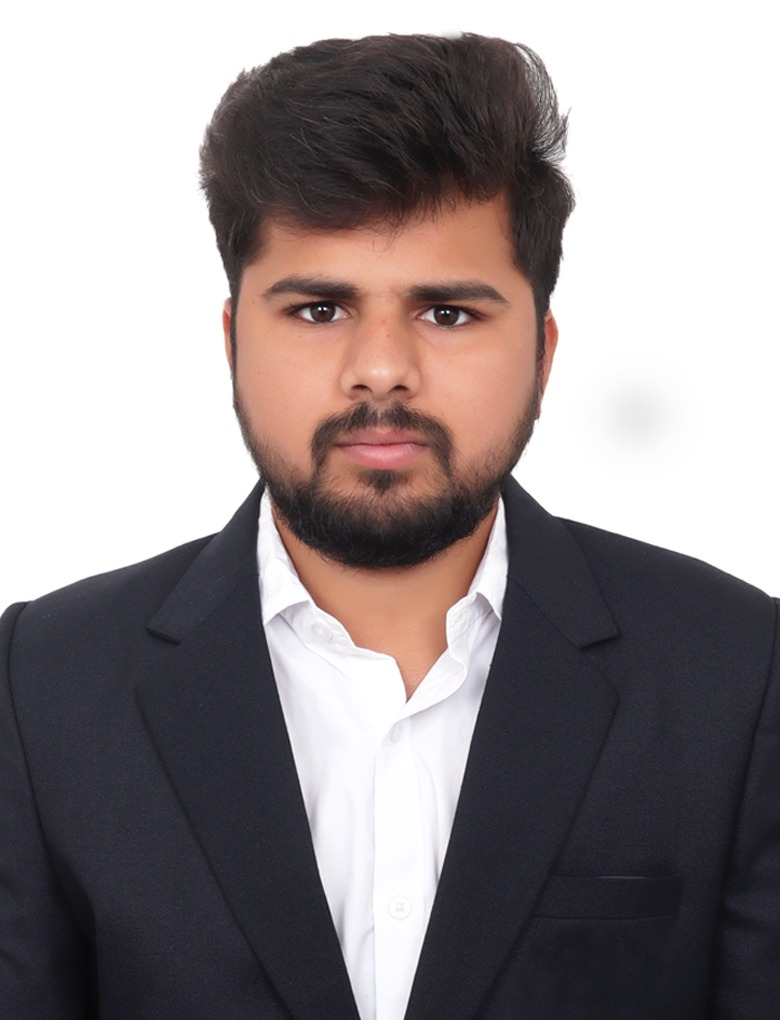
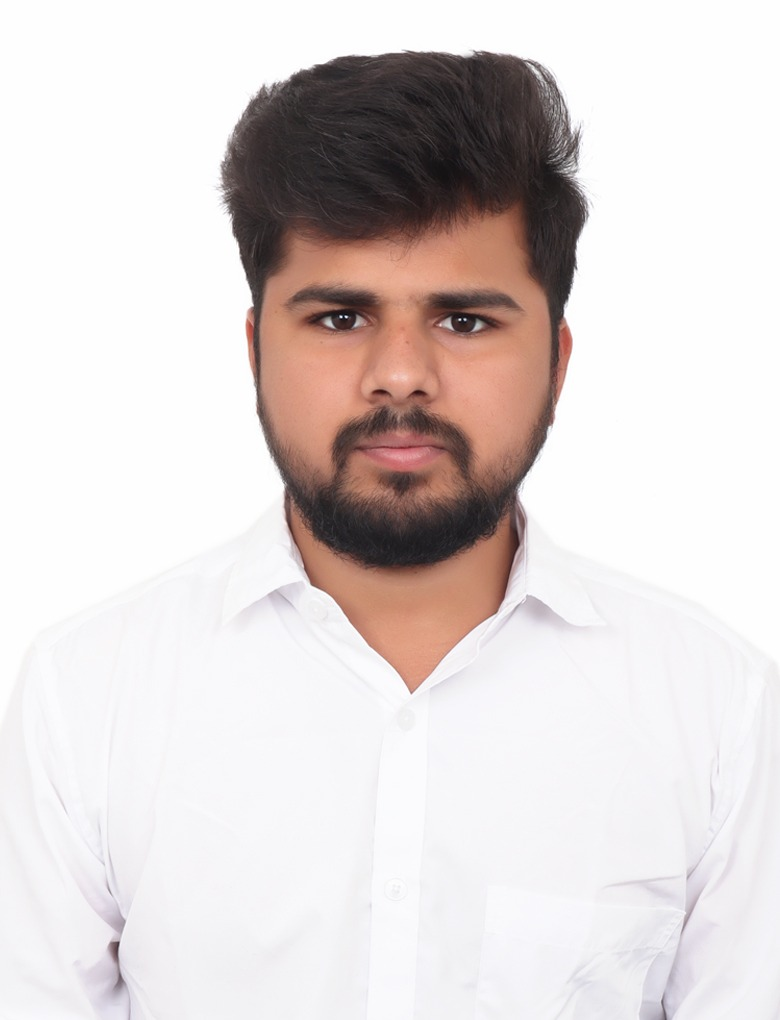
Update portfolio and thank you page

diff --git a/css/style.css b/css/style.css
@@ -884,3 +884,119 @@ footer {
     background: #2563eb;
     transform: translateY(-5px);
 }
+
+.success-message {
+    display: none;
+    margin-top: 20px;
+    padding: 15px;
+    background: #d4edda;
+    color: #155724;
+    border: 1px solid #c3e6cb;
+    border-radius: 8px;
+    text-align: center;
+    font-weight: 600;
+    animation: fadeIn 0.5s ease;
+}
+
+@keyframes fadeIn {
+    from {
+        opacity: 0;
+        transform: translateY(-10px);
+    }
+
+    to {
+        opacity: 1;
+        transform: translateY(0);
+    }
+}
+
+.success-message {
+    display: none;
+    margin-top: 20px;
+    padding: 15px;
+    background-color: #d4edda;
+    color: #155724;
+    border: 1px solid #c3e6cb;
+    border-radius: 8px;
+    text-align: center;
+    font-weight: 600;
+    animation: fadeIn 0.5s ease;
+}
+
+/* =========================
+   Thank You Page
+========================= */
+
+.thank-you-page{
+    min-height:100vh;
+    display:flex;
+    justify-content:center;
+    align-items:center;
+    padding:20px;
+    background:var(--bg-color);
+}
+
+.thank-you-card{
+    width:100%;
+    max-width:550px;
+    padding:50px 35px;
+    background:var(--card-color);
+    border-radius:20px;
+    text-align:center;
+    box-shadow:0 10px 30px rgba(0,0,0,.25);
+    border:1px solid rgba(255,255,255,.08);
+}
+
+.success-icon{
+    font-size:70px;
+    color:#22c55e;
+    margin-bottom:20px;
+}
+
+.thank-you-card h1{
+    margin-bottom:15px;
+    color:var(--heading-color);
+}
+
+.thank-you-card p{
+    margin-bottom:35px;
+    color:var(--text-color);
+    line-height:1.7;
+}
+
+.thank-you-card .primary-button{
+    display:inline-block;
+}
+
+.page-loader{
+    position:fixed;
+    inset:0;
+    background:#0f172a;
+    display:flex;
+    justify-content:center;
+    align-items:center;
+    opacity:0;
+    visibility:hidden;
+    transition:.4s;
+    z-index:9999;
+}
+
+.page-loader.show{
+    opacity:1;
+    visibility:visible;
+}
+
+.spinner{
+    width:50px;
+    height:50px;
+    border:4px solid rgba(255,255,255,.2);
+    border-top:4px solid #3b82f6;
+    border-radius:50%;
+    animation:spin .8s linear infinite;
+}
+
+@keyframes spin{
+    to{
+        transform:rotate(360deg);
+    }
+}

diff --git a/index.html b/index.html
@@ -569,28 +569,49 @@
 
                 </div>
 
-                <form class="contact-form">
+                <form action="https://formsubmit.co/shobhithgowda204@gmail.com" method="POST" class="contact-form">
+
+                    <input
+                        type="hidden"
+                        name="_captcha"
+                        value="false"
+                    >
+
+                    <input
+                        type="hidden"
+                        name="_subject"
+                        value="New Portfolio Contact Message"
+                    >
+
+                    <input
+                        type="hidden"
+                        name="_next"
+                        value="https://shobhithgowda20.github.io/My_Portfolio/thank-you.html"
+                    >
 
                     <input
                         type="text"
-                        placeholder="Your name"
+                        name="name"
+                        placeholder="Your Name"
                         required
                     >
 
                     <input
                         type="email"
-                        placeholder="Your email"
+                        name="email"
+                        placeholder="Your Email"
                         required
                     >
 
                     <textarea
+                        name="message"
                         rows="6"
-                        placeholder="Your message"
+                        placeholder="Your Message"
                         required
                     ></textarea>
 
-                    <button type="submit" class="primary-button">
-                        Send Message
+                    <button type="submit" class="primary-button" id="submitBtn">
+                     Send Message
                     </button>
 
                 </form>
@@ -647,8 +668,7 @@
       <i class="fa-solid fa-arrow-up"></i>
     </button>
 
-    <script src="js/script.js"></script>
-
+    <script src="js/script.js?v=3"></script>
 </body>
 
 </html>

diff --git a/thank-you.html b/thank-you.html
@@ -1,0 +1,65 @@
+<!DOCTYPE html>
+<html lang="en">
+
+<head>
+    <meta charset="UTF-8">
+    <meta name="viewport" content="width=device-width, initial-scale=1.0">
+
+    <title>Thank You | Shobhith Gowda N</title>
+
+    <meta name="description" content="Thank you for contacting Shobhith Gowda N. Your message has been received successfully.">
+    <meta name="author" content="Shobhith Gowda N">
+
+    <link rel="stylesheet" href="css/style.css">
+
+    <link rel="stylesheet"
+        href="https://cdnjs.cloudflare.com/ajax/libs/font-awesome/6.7.2/css/all.min.css"
+    >
+</head>
+
+<body>
+
+    <div class="thank-you-page">
+
+        <div class="thank-you-card">
+
+            <div class="success-icon">
+                <i class="fa-solid fa-circle-check"></i>
+            </div>
+
+            <h1>Message Sent Successfully!</h1>
+
+            <p>
+                Thank you for contacting me.<br>
+                I'll get back to you soon.
+            </p>
+
+            <a href="./index.html" class="primary-button" id="backBtn">
+                ← Back to Portfolio
+            </a>
+        </div>
+
+    </div>
+
+    <div id="pageLoader" class="page-loader">
+      <div class="spinner"></div>
+    </div>
+
+    <script>
+        const backBtn = document.getElementById("backBtn");
+        const loader = document.getElementById("pageLoader");
+
+        backBtn.addEventListener("click", function(e){
+            e.preventDefault();
+
+            loader.classList.add("show");
+
+            setTimeout(() => {
+                window.location.href = "./index.html";
+            }, 900);
+        });
+    </script>
+
+</body>
+
+</html>

diff --git a/js/script.js b/js/script.js
@@ -12,14 +12,6 @@ links.forEach(function (link) {
     });
 });
 
-const contactForm = document.querySelector(".contact-form");
-
-contactForm.addEventListener("submit", function (event) {
-    event.preventDefault();
-
-    alert("The contact form design is ready. We will connect it to email later.");
-});
-
 /* ---------------- Scroll Animation ---------------- */
 
 const revealElements = document.querySelectorAll(".reveal");
@@ -142,3 +134,38 @@ window.addEventListener("scroll", () => {
     });
 
 });
+
+// =========================
+// Contact Form
+// =========================
+
+const form = document.querySelector(".contact-form");
+const submitBtn = document.getElementById("submitBtn");
+
+if (form && submitBtn) {
+    form.addEventListener("submit", () => {
+        submitBtn.textContent = "Sending...";
+        submitBtn.disabled = true;
+    });
+}
+
+// =========================
+// Success Message
+// =========================
+
+const params = new URLSearchParams(window.location.search);
+const successMessage = document.getElementById("successMessage");
+
+if (params.get("success") === "true" && successMessage) {
+    successMessage.style.display = "block";
+
+    setTimeout(() => {
+        successMessage.style.display = "none";
+
+        window.history.replaceState(
+            {},
+            document.title,
+            window.location.pathname + "#contact"
+        );
+    }, 5000);
+}
